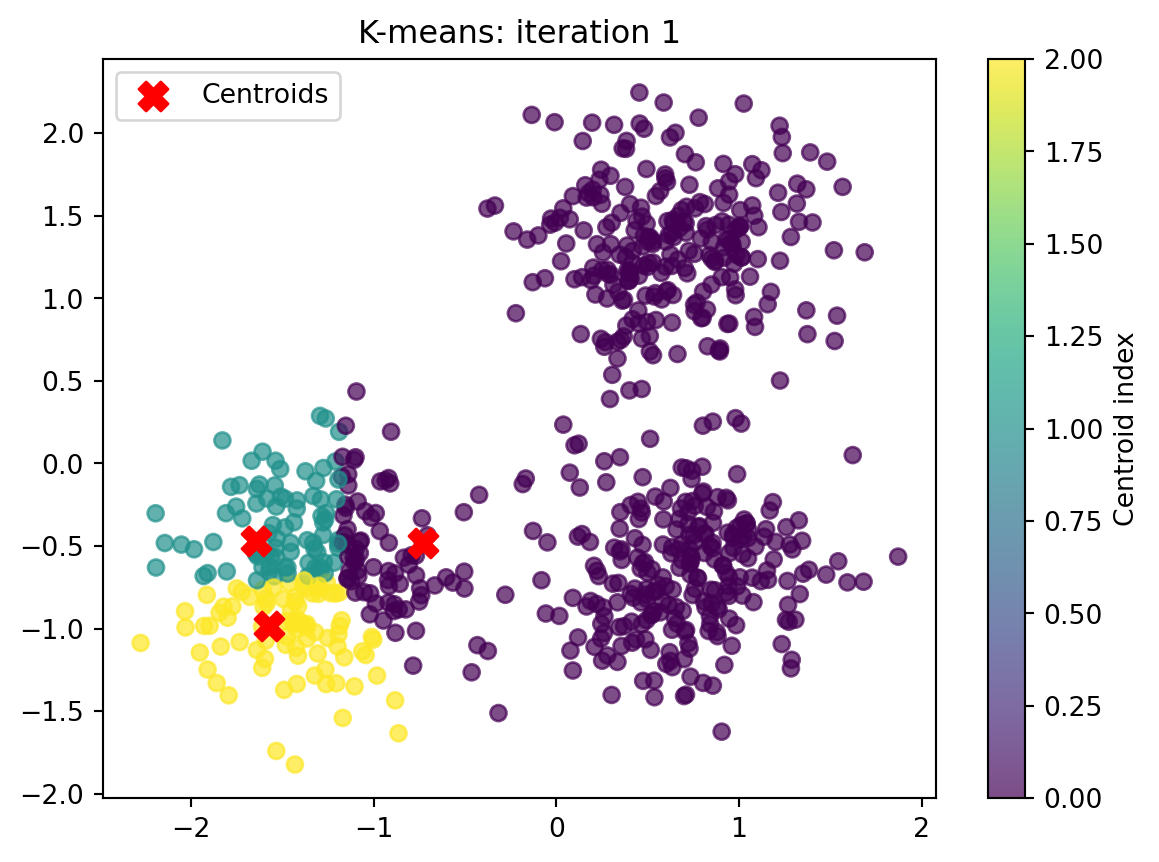
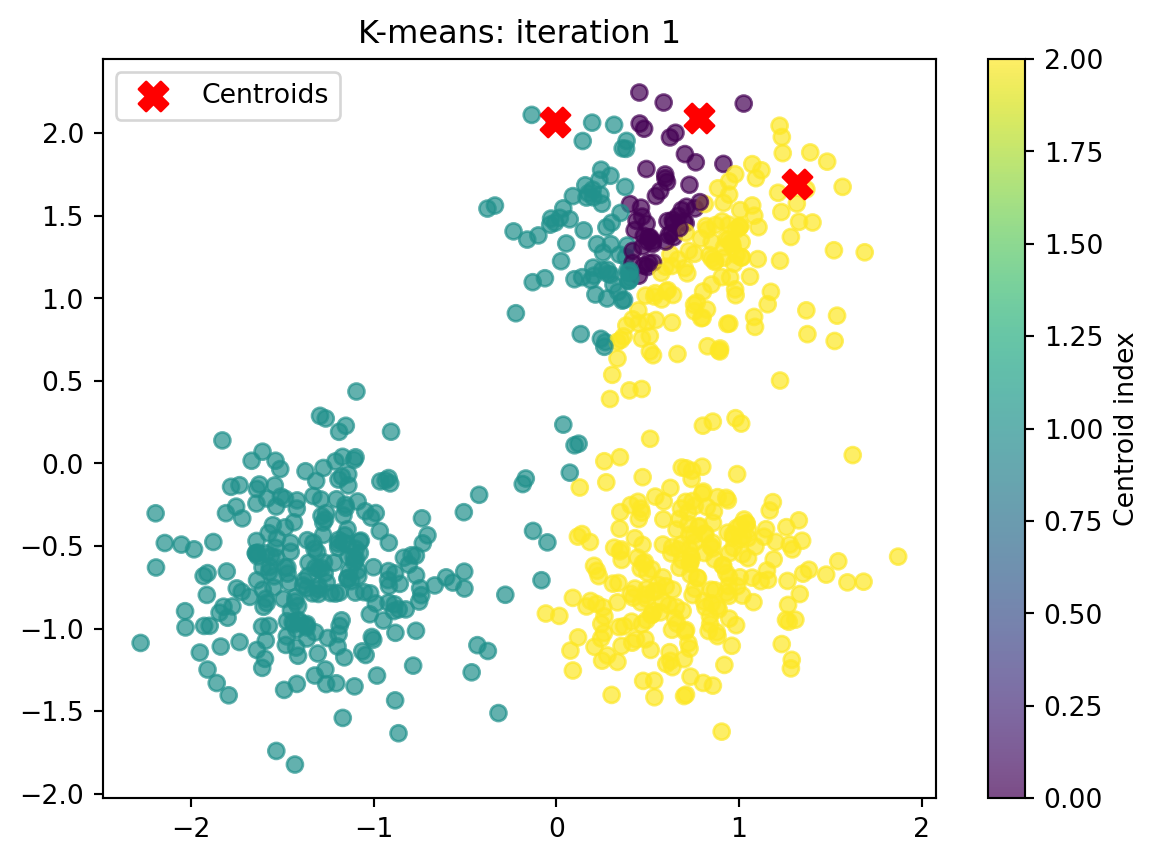
update docs

diff --git a/docs/Clustering_from_scratch.html b/docs/Clustering_from_scratch.html
@@ -299,7 +299,7 @@ window.Quarto = {
 <li>Each cluster has a “center” (called the centroid), which is the average of the data points in that cluster.</li>
 <li>Data points are assigned to the cluster with the nearest centroid, so items in the same cluster are more similar to each other than to items in other clusters.</li>
 </ul>
-<div id="7318065c" class="cell" data-execution_count="1">
+<div id="a6c323f1" class="cell" data-execution_count="1">
 <div class="sourceCode cell-code" id="cb1"><pre class="sourceCode python code-with-copy"><code class="sourceCode python"><span id="cb1-1"><a href="#cb1-1" aria-hidden="true" tabindex="-1"></a><span class="im">import</span> numpy <span class="im">as</span> np</span>
 <span id="cb1-2"><a href="#cb1-2" aria-hidden="true" tabindex="-1"></a><span class="im">from</span> sklearn.datasets <span class="im">import</span> make_blobs</span>
 <span id="cb1-3"><a href="#cb1-3" aria-hidden="true" tabindex="-1"></a><span class="im">from</span> sklearn.preprocessing <span class="im">import</span> StandardScaler</span>
@@ -310,7 +310,7 @@ window.Quarto = {
 <ol type="1">
 <li>Let’s generate some data:</li>
 </ol>
-<div id="74135237" class="cell" data-execution_count="2">
+<div id="85a25635" class="cell" data-execution_count="2">
 <div class="sourceCode cell-code" id="cb2"><pre class="sourceCode python code-with-copy"><code class="sourceCode python"><span id="cb2-1"><a href="#cb2-1" aria-hidden="true" tabindex="-1"></a>centers <span class="op">=</span> [[<span class="dv">1</span>, <span class="dv">1</span>], [<span class="op">-</span><span class="dv">1</span>, <span class="op">-</span><span class="dv">1</span>], [<span class="dv">1</span>, <span class="op">-</span><span class="dv">1</span>]]</span>
 <span id="cb2-2"><a href="#cb2-2" aria-hidden="true" tabindex="-1"></a>data, labels_true <span class="op">=</span> make_blobs(</span>
 <span id="cb2-3"><a href="#cb2-3" aria-hidden="true" tabindex="-1"></a>    n_samples<span class="op">=</span><span class="dv">750</span>, centers<span class="op">=</span>centers, cluster_std<span class="op">=</span><span class="fl">0.4</span>, random_state<span class="op">=</span><span class="dv">0</span></span>
@@ -336,7 +336,7 @@ window.Quarto = {
 <ol start="2" type="1">
 <li>Let’s make a simple plot of the data:</li>
 </ol>
-<div id="1368d31a" class="cell" data-execution_count="3">
+<div id="a617b3d7" class="cell" data-execution_count="3">
 <div class="sourceCode cell-code" id="cb5"><pre class="sourceCode python code-with-copy"><code class="sourceCode python"><span id="cb5-1"><a href="#cb5-1" aria-hidden="true" tabindex="-1"></a>fig,ax <span class="op">=</span> plt.subplots()</span>
 <span id="cb5-2"><a href="#cb5-2" aria-hidden="true" tabindex="-1"></a>ax.scatter(data[:,<span class="dv">0</span>], data[:,<span class="dv">1</span>])</span>
 <span id="cb5-3"><a href="#cb5-3" aria-hidden="true" tabindex="-1"></a>plt.show()</span></code><button title="Copy to Clipboard" class="code-copy-button"><i class="bi"></i></button></pre></div>
@@ -380,7 +380,7 @@ Solution
 </div>
 <div id="callout-1" class="callout-1-contents callout-collapse collapse">
 <div class="callout-body-container callout-body">
-<div id="95388d80" class="cell" data-execution_count="4">
+<div id="0a0f32c5" class="cell" data-execution_count="4">
 <div class="sourceCode cell-code" id="cb6"><pre class="sourceCode python code-with-copy"><code class="sourceCode python"><span id="cb6-1"><a href="#cb6-1" aria-hidden="true" tabindex="-1"></a><span class="im">import</span> random</span>
 <span id="cb6-2"><a href="#cb6-2" aria-hidden="true" tabindex="-1"></a></span>
 <span id="cb6-3"><a href="#cb6-3" aria-hidden="true" tabindex="-1"></a><span class="co"># Select 3 random rows from data</span></span>
@@ -396,9 +396,9 @@ Solution
 <span id="cb6-13"><a href="#cb6-13" aria-hidden="true" tabindex="-1"></a>ax.scatter(centroids[:, <span class="dv">0</span>], centroids[:, <span class="dv">1</span>], color<span class="op">=</span><span class="st">'red'</span>, s<span class="op">=</span><span class="dv">100</span>, marker<span class="op">=</span><span class="st">'X'</span>, label<span class="op">=</span><span class="st">'Centroids'</span>)</span>
 <span id="cb6-14"><a href="#cb6-14" aria-hidden="true" tabindex="-1"></a>plt.show()</span></code><button title="Copy to Clipboard" class="code-copy-button"><i class="bi"></i></button></pre></div>
 <div class="cell-output cell-output-stdout">
-<pre><code>[[-1.43557093 -0.97471401]
- [ 0.59807564  1.34363133]
- [ 0.86732948 -0.76800329]]</code></pre>
+<pre><code>[[ 1.68745105  1.27830756]
+ [-1.29275264  0.28788197]
+ [-0.70491186 -0.4356543 ]]</code></pre>
 </div>
 <div class="cell-output cell-output-display">
 <div>
@@ -438,13 +438,13 @@ Solution
 </div>
 <div id="callout-2" class="callout-2-contents callout-collapse collapse">
 <div class="callout-body-container callout-body">
-<div id="b1827acc" class="cell" data-execution_count="5">
+<div id="2dbf77d2" class="cell" data-execution_count="5">
 <div class="sourceCode cell-code" id="cb8"><pre class="sourceCode python code-with-copy"><code class="sourceCode python"><span id="cb8-1"><a href="#cb8-1" aria-hidden="true" tabindex="-1"></a><span class="kw">def</span> calculate_euclidean_distance(point1, point2):</span>
 <span id="cb8-2"><a href="#cb8-2" aria-hidden="true" tabindex="-1"></a>    <span class="cf">return</span> np.sqrt(np.<span class="bu">sum</span>((point1 <span class="op">-</span> point2) <span class="op">**</span> <span class="dv">2</span>))</span>
 <span id="cb8-3"><a href="#cb8-3" aria-hidden="true" tabindex="-1"></a></span>
 <span id="cb8-4"><a href="#cb8-4" aria-hidden="true" tabindex="-1"></a>calculate_euclidean_distance(data[<span class="dv">0</span>], centroids[<span class="dv">0</span>])</span></code><button title="Copy to Clipboard" class="code-copy-button"><i class="bi"></i></button></pre></div>
 <div class="cell-output cell-output-display" data-execution_count="5">
-<pre><code>3.099784587739274</code></pre>
+<pre><code>1.2056319469547112</code></pre>
 </div>
 </div>
 </div>
@@ -466,7 +466,7 @@ Solution
 </div>
 <div id="callout-3" class="callout-3-contents callout-collapse collapse">
 <div class="callout-body-container callout-body">
-<div id="c7011323" class="cell" data-execution_count="6">
+<div id="fa253e78" class="cell" data-execution_count="6">
 <div class="sourceCode cell-code" id="cb10"><pre class="sourceCode python code-with-copy"><code class="sourceCode python"><span id="cb10-1"><a href="#cb10-1" aria-hidden="true" tabindex="-1"></a>results <span class="op">=</span>[]</span>
 <span id="cb10-2"><a href="#cb10-2" aria-hidden="true" tabindex="-1"></a><span class="cf">for</span> i, entry <span class="kw">in</span> <span class="bu">enumerate</span>(centroids):</span>
 <span id="cb10-3"><a href="#cb10-3" aria-hidden="true" tabindex="-1"></a>    distance <span class="op">=</span> calculate_euclidean_distance(data[<span class="dv">0</span>], entry)</span>
@@ -476,7 +476,7 @@ Solution
 <span id="cb10-7"><a href="#cb10-7" aria-hidden="true" tabindex="-1"></a></span>
 <span id="cb10-8"><a href="#cb10-8" aria-hidden="true" tabindex="-1"></a><span class="bu">print</span>(closest_index)</span></code><button title="Copy to Clipboard" class="code-copy-button"><i class="bi"></i></button></pre></div>
 <div class="cell-output cell-output-stdout">
-<pre><code>1</code></pre>
+<pre><code>0</code></pre>
 </div>
 </div>
 </div>
@@ -498,7 +498,7 @@ Solution
 </div>
 <div id="callout-4" class="callout-4-contents callout-collapse collapse">
 <div class="callout-body-container callout-body">
-<div id="abc80cfd" class="cell" data-execution_count="7">
+<div id="e530bbd6" class="cell" data-execution_count="7">
 <div class="sourceCode cell-code" id="cb12"><pre class="sourceCode python code-with-copy"><code class="sourceCode python"><span id="cb12-1"><a href="#cb12-1" aria-hidden="true" tabindex="-1"></a>closest_index <span class="op">=</span> []</span>
 <span id="cb12-2"><a href="#cb12-2" aria-hidden="true" tabindex="-1"></a></span>
 <span id="cb12-3"><a href="#cb12-3" aria-hidden="true" tabindex="-1"></a><span class="cf">for</span> j, row <span class="kw">in</span> <span class="bu">enumerate</span>(data):</span>
@@ -512,7 +512,7 @@ Solution
 <span id="cb12-11"><a href="#cb12-11" aria-hidden="true" tabindex="-1"></a></span>
 <span id="cb12-12"><a href="#cb12-12" aria-hidden="true" tabindex="-1"></a><span class="bu">print</span>(closest_index)</span></code><button title="Copy to Clipboard" class="code-copy-button"><i class="bi"></i></button></pre></div>
 <div class="cell-output cell-output-stdout">
-<pre><code>[1, 0, 1, 2, 1, 0, 0, 2, 1, 1, 0, 0, 0, 2, 0, 1, 0, 0, 0, 2, 2, 2, 2, 2, 0, 0, 2, 1, 1, 2, 1, 0, 0, 1, 0, 1, 2, 1, 1, 2, 2, 0, 0, 0, 0, 0, 1, 2, 1, 0, 2, 2, 0, 0, 2, 2, 0, 1, 2, 0, 2, 2, 2, 2, 2, 1, 2, 2, 1, 1, 1, 2, 1, 1, 2, 0, 1, 0, 1, 2, 0, 0, 1, 1, 1, 1, 0, 2, 0, 2, 2, 1, 0, 1, 0, 1, 0, 0, 1, 1, 2, 0, 2, 1, 2, 2, 2, 2, 1, 1, 1, 0, 0, 0, 0, 1, 1, 0, 1, 0, 2, 0, 1, 1, 0, 2, 0, 1, 1, 2, 1, 2, 2, 2, 1, 0, 2, 2, 1, 0, 1, 2, 1, 1, 2, 2, 0, 2, 0, 1, 2, 0, 0, 2, 2, 2, 1, 0, 1, 0, 1, 0, 1, 2, 2, 0, 0, 2, 2, 0, 1, 0, 2, 2, 2, 0, 0, 2, 2, 1, 0, 2, 1, 1, 2, 1, 1, 0, 1, 0, 1, 0, 0, 2, 2, 1, 1, 0, 0, 2, 0, 2, 2, 2, 2, 1, 2, 1, 2, 2, 1, 2, 2, 2, 1, 1, 0, 0, 0, 2, 2, 2, 2, 0, 2, 2, 1, 1, 2, 1, 1, 1, 0, 1, 0, 0, 0, 2, 0, 0, 1, 0, 2, 2, 0, 2, 2, 0, 1, 1, 0, 0, 0, 1, 0, 1, 2, 1, 2, 2, 2, 2, 2, 0, 0, 1, 1, 0, 0, 1, 1, 2, 0, 2, 2, 0, 0, 2, 0, 2, 1, 2, 2, 1, 0, 2, 2, 1, 2, 2, 1, 1, 2, 1, 2, 1, 2, 0, 1, 1, 1, 0, 2, 0, 2, 2, 1, 2, 2, 1, 1, 2, 0, 0, 0, 0, 0, 1, 0, 0, 0, 0, 1, 1, 0, 0, 0, 1, 2, 1, 0, 2, 2, 1, 1, 2, 1, 2, 0, 1, 2, 1, 2, 1, 2, 2, 1, 0, 1, 0, 1, 2, 2, 0, 0, 0, 2, 1, 2, 1, 2, 0, 2, 2, 1, 0, 1, 0, 1, 1, 1, 1, 2, 1, 2, 1, 0, 1, 0, 2, 0, 0, 0, 1, 0, 0, 1, 2, 0, 1, 2, 2, 0, 0, 2, 2, 2, 0, 2, 0, 2, 1, 2, 0, 2, 0, 1, 0, 1, 0, 0, 1, 0, 2, 2, 0, 1, 1, 2, 0, 2, 2, 2, 2, 0, 1, 1, 1, 1, 0, 1, 2, 0, 1, 0, 2, 1, 1, 0, 1, 0, 0, 1, 0, 1, 2, 2, 2, 0, 0, 2, 1, 0, 1, 1, 0, 1, 0, 0, 2, 2, 0, 1, 0, 2, 2, 0, 0, 0, 0, 1, 1, 1, 2, 2, 0, 2, 0, 1, 1, 0, 2, 0, 1, 1, 2, 1, 0, 1, 2, 0, 1, 2, 2, 0, 1, 1, 1, 2, 0, 0, 1, 2, 1, 1, 0, 0, 0, 0, 1, 0, 1, 0, 1, 1, 2, 1, 0, 0, 2, 0, 0, 1, 0, 1, 2, 0, 1, 1, 0, 1, 0, 0, 2, 2, 0, 2, 2, 0, 2, 0, 0, 0, 0, 2, 1, 1, 1, 0, 2, 2, 1, 2, 1, 2, 0, 1, 0, 0, 1, 1, 0, 2, 0, 2, 2, 1, 2, 0, 0, 0, 2, 1, 1, 2, 1, 2, 2, 1, 2, 1, 0, 0, 0, 0, 1, 1, 1, 2, 0, 0, 0, 0, 2, 2, 2, 1, 2, 0, 0, 1, 1, 0, 1, 2, 0, 2, 0, 1, 2, 2, 1, 1, 0, 1, 1, 2, 1, 1, 1, 2, 1, 2, 1, 1, 0, 0, 1, 1, 0, 2, 2, 1, 1, 1, 1, 2, 0, 0, 0, 2, 0, 1, 1, 2, 2, 1, 0, 2, 1, 0, 2, 2, 0, 1, 1, 2, 0, 2, 1, 1, 1, 2, 2, 2, 1, 0, 0, 0, 0, 0, 1, 1, 2, 0, 2, 1, 0, 0, 2, 1, 2, 0, 0, 0, 2, 0, 2, 1, 2, 2, 0, 1, 1, 1, 0, 0, 2, 1, 1, 2, 2, 0, 2, 2, 2, 1, 2, 0, 2, 0, 0, 0, 2, 1, 2, 1, 2, 2, 1, 1, 2, 0, 1, 1, 2, 1, 1, 1, 0, 1, 2, 0, 2, 1, 0, 1, 1, 2, 1, 2, 0, 0, 2, 0, 1, 0, 2, 0, 2]</code></pre>
+<pre><code>[0, 2, 0, 2, 0, 1, 2, 2, 0, 0, 2, 2, 2, 2, 2, 0, 2, 2, 2, 2, 2, 2, 2, 2, 2, 2, 2, 0, 0, 2, 0, 2, 2, 0, 2, 0, 2, 0, 0, 2, 2, 2, 2, 2, 1, 2, 0, 2, 0, 1, 0, 2, 1, 2, 2, 2, 1, 0, 2, 2, 2, 2, 2, 2, 2, 0, 2, 2, 0, 0, 0, 2, 0, 0, 2, 2, 0, 1, 0, 2, 2, 2, 2, 0, 0, 0, 2, 2, 2, 2, 2, 0, 2, 0, 2, 0, 1, 2, 0, 0, 2, 2, 2, 0, 2, 2, 2, 2, 0, 0, 0, 2, 2, 1, 1, 0, 0, 1, 0, 2, 2, 1, 0, 1, 2, 2, 2, 0, 0, 0, 0, 2, 2, 2, 0, 2, 2, 2, 0, 2, 0, 2, 0, 0, 2, 2, 2, 2, 2, 0, 2, 2, 2, 2, 2, 2, 0, 2, 0, 2, 2, 1, 0, 2, 2, 2, 1, 2, 2, 1, 0, 2, 2, 2, 2, 2, 2, 2, 2, 0, 2, 2, 0, 0, 2, 0, 0, 2, 0, 2, 0, 2, 2, 2, 2, 0, 0, 2, 2, 2, 2, 2, 0, 2, 2, 0, 2, 0, 2, 2, 0, 2, 0, 2, 0, 1, 1, 2, 1, 2, 2, 2, 0, 1, 2, 2, 0, 0, 2, 0, 0, 0, 2, 0, 2, 1, 1, 2, 1, 1, 0, 2, 2, 2, 2, 2, 2, 2, 0, 0, 2, 2, 2, 0, 2, 0, 2, 0, 2, 0, 0, 2, 2, 2, 2, 1, 0, 2, 2, 0, 0, 2, 2, 0, 2, 2, 1, 2, 2, 2, 1, 2, 2, 0, 2, 2, 2, 1, 0, 2, 0, 0, 2, 0, 2, 0, 2, 2, 0, 0, 0, 2, 2, 2, 2, 2, 0, 2, 2, 0, 0, 2, 1, 1, 1, 2, 2, 0, 2, 1, 2, 1, 0, 0, 2, 2, 2, 0, 2, 0, 2, 2, 2, 0, 0, 2, 0, 2, 2, 0, 2, 0, 2, 1, 2, 2, 0, 2, 0, 2, 0, 2, 2, 2, 2, 2, 2, 0, 2, 0, 2, 1, 2, 2, 0, 2, 0, 2, 0, 0, 0, 0, 2, 0, 2, 0, 2, 0, 2, 2, 2, 1, 2, 0, 2, 2, 0, 2, 1, 0, 2, 0, 2, 2, 2, 2, 2, 2, 2, 2, 2, 0, 2, 2, 2, 1, 0, 2, 0, 2, 2, 0, 1, 2, 0, 1, 0, 0, 2, 1, 2, 2, 2, 2, 2, 0, 1, 1, 0, 2, 0, 0, 2, 0, 2, 2, 0, 0, 2, 0, 1, 2, 0, 2, 0, 2, 2, 2, 1, 1, 2, 0, 1, 0, 1, 2, 0, 2, 2, 2, 2, 2, 0, 2, 2, 0, 2, 2, 2, 2, 0, 0, 0, 2, 2, 1, 2, 2, 0, 0, 2, 2, 1, 0, 0, 2, 0, 2, 0, 2, 2, 0, 2, 2, 2, 0, 2, 0, 2, 2, 1, 0, 2, 0, 0, 2, 1, 1, 2, 0, 2, 0, 2, 0, 0, 2, 0, 2, 2, 2, 2, 2, 1, 2, 0, 2, 2, 0, 0, 2, 0, 1, 1, 2, 2, 2, 2, 2, 2, 2, 2, 1, 1, 1, 2, 0, 0, 0, 2, 2, 2, 0, 2, 0, 2, 1, 0, 2, 2, 0, 0, 2, 0, 2, 2, 2, 0, 0, 2, 2, 1, 2, 0, 0, 2, 0, 2, 2, 0, 2, 0, 1, 2, 2, 1, 0, 0, 0, 2, 2, 1, 1, 1, 2, 2, 2, 0, 2, 1, 2, 0, 0, 2, 0, 2, 2, 2, 2, 0, 2, 2, 0, 0, 2, 0, 0, 2, 0, 0, 0, 2, 2, 2, 0, 2, 2, 2, 0, 0, 2, 2, 2, 0, 0, 0, 0, 2, 1, 2, 2, 0, 2, 0, 0, 2, 2, 0, 2, 2, 0, 2, 2, 2, 2, 0, 0, 0, 2, 2, 0, 0, 0, 2, 0, 2, 0, 2, 2, 2, 2, 2, 0, 0, 2, 2, 0, 0, 2, 2, 2, 2, 2, 2, 2, 2, 2, 2, 2, 0, 0, 2, 2, 0, 0, 0, 2, 1, 2, 0, 0, 0, 2, 2, 2, 2, 2, 0, 2, 2, 2, 2, 2, 1, 2, 0, 2, 0, 2, 2, 0, 2, 0, 2, 2, 0, 0, 0, 0, 0, 2, 2, 2, 2, 2, 0, 1, 0, 0, 2, 0, 2, 2, 1, 2, 2, 0, 1, 2, 1, 2]</code></pre>
 </div>
 </div>
 </div>
@@ -534,7 +534,7 @@ Solution
 </div>
 <div id="callout-5" class="callout-5-contents callout-collapse collapse">
 <div class="callout-body-container callout-body">
-<div id="7248c096" class="cell" data-execution_count="8">
+<div id="5189e8e1" class="cell" data-execution_count="8">
 <div class="sourceCode cell-code" id="cb14"><pre class="sourceCode python code-with-copy"><code class="sourceCode python"><span id="cb14-1"><a href="#cb14-1" aria-hidden="true" tabindex="-1"></a>fig,ax <span class="op">=</span> plt.subplots()</span>
 <span id="cb14-2"><a href="#cb14-2" aria-hidden="true" tabindex="-1"></a>scatter <span class="op">=</span> ax.scatter(data[:, <span class="dv">0</span>], data[:, <span class="dv">1</span>], c<span class="op">=</span>closest_index, cmap<span class="op">=</span><span class="st">'viridis'</span>, alpha<span class="op">=</span><span class="fl">0.7</span>)</span>
 <span id="cb14-3"><a href="#cb14-3" aria-hidden="true" tabindex="-1"></a>ax.scatter(centroids[:, <span class="dv">0</span>], centroids[:, <span class="dv">1</span>], color<span class="op">=</span><span class="st">'red'</span>, s<span class="op">=</span><span class="dv">100</span>, marker<span class="op">=</span><span class="st">'X'</span>, label<span class="op">=</span><span class="st">'Centroids'</span>)</span>
@@ -556,7 +556,7 @@ Solution
 <h3 class="anchored" data-anchor-id="calculate-new-mean-per-cluster">3. Calculate new mean per cluster</h3>
 <p>We have now assigned all points to these first 3 clusters. Now we calculate the new cluster mean per cluster.</p>
 <p>First, we add the vector containing the assignment to the cluster to the data frame.</p>
-<div id="31d8acfc" class="cell" data-execution_count="9">
+<div id="4a9a962f" class="cell" data-execution_count="9">
 <div class="sourceCode cell-code" id="cb15"><pre class="sourceCode python code-with-copy"><code class="sourceCode python"><span id="cb15-1"><a href="#cb15-1" aria-hidden="true" tabindex="-1"></a>data <span class="op">=</span> np.column_stack((data, closest_index)) <span class="co"># add closest_index as column</span></span></code><button title="Copy to Clipboard" class="code-copy-button"><i class="bi"></i></button></pre></div>
 </div>
 <p>Then we calculate the new means of those clusters.</p>
@@ -572,7 +572,7 @@ Solution
 </div>
 <div id="callout-6" class="callout-6-contents callout-collapse collapse">
 <div class="callout-body-container callout-body">
-<div id="ab1b6219" class="cell" data-execution_count="10">
+<div id="7ba7bb41" class="cell" data-execution_count="10">
 <div class="sourceCode cell-code" id="cb16"><pre class="sourceCode python code-with-copy"><code class="sourceCode python"><span id="cb16-1"><a href="#cb16-1" aria-hidden="true" tabindex="-1"></a><span class="co"># Calculate the new_centroids</span></span>
 <span id="cb16-2"><a href="#cb16-2" aria-hidden="true" tabindex="-1"></a></span>
 <span id="cb16-3"><a href="#cb16-3" aria-hidden="true" tabindex="-1"></a>k <span class="op">=</span> <span class="dv">3</span>  <span class="co"># Number of clusters</span></span>
@@ -586,7 +586,7 @@ Solution
 <span id="cb16-11"><a href="#cb16-11" aria-hidden="true" tabindex="-1"></a>    new_centroids.append(centroid)</span>
 <span id="cb16-12"><a href="#cb16-12" aria-hidden="true" tabindex="-1"></a><span class="bu">print</span>(new_centroids)</span></code><button title="Copy to Clipboard" class="code-copy-button"><i class="bi"></i></button></pre></div>
 <div class="cell-output cell-output-stdout">
-<pre><code>[array([-1.30266211, -0.65704205]), array([0.62025882, 1.31291144]), array([ 0.69809801, -0.64795323])]</code></pre>
+<pre><code>[array([0.72365215, 1.19086843]), array([-1.36293866, -0.03194774]), array([-0.19714498, -0.70508851])]</code></pre>
 </div>
 </div>
 </div>
@@ -595,7 +595,7 @@ Solution
 <section id="plot-the-new-centroids" class="level4">
 <h4 class="anchored" data-anchor-id="plot-the-new-centroids">Plot the new centroids</h4>
 <p>we can now plot the new centroids, by updaing the first plot.</p>
-<div id="2dcdc2fa" class="cell" data-execution_count="11">
+<div id="beb03c88" class="cell" data-execution_count="11">
 <div class="sourceCode cell-code" id="cb18"><pre class="sourceCode python code-with-copy"><code class="sourceCode python"><span id="cb18-1"><a href="#cb18-1" aria-hidden="true" tabindex="-1"></a>new_centroids <span class="op">=</span> np.array(new_centroids)  <span class="co"># Convert list to (k, 2) NumPy array</span></span>
 <span id="cb18-2"><a href="#cb18-2" aria-hidden="true" tabindex="-1"></a></span>
 <span id="cb18-3"><a href="#cb18-3" aria-hidden="true" tabindex="-1"></a>fig, ax <span class="op">=</span> plt.subplots()</span>
@@ -623,7 +623,7 @@ Solution
 </section>
 <section id="putting-it-all-together" class="level2">
 <h2 class="anchored" data-anchor-id="putting-it-all-together">Putting it all together:</h2>
-<div id="11ac33ec" class="cell" data-execution_count="12">
+<div id="bb413a6e" class="cell" data-execution_count="12">
 <div class="sourceCode cell-code" id="cb19"><pre class="sourceCode python code-with-copy"><code class="sourceCode python"><span id="cb19-1"><a href="#cb19-1" aria-hidden="true" tabindex="-1"></a><span class="im">import</span> numpy <span class="im">as</span> np</span>
 <span id="cb19-2"><a href="#cb19-2" aria-hidden="true" tabindex="-1"></a><span class="im">import</span> matplotlib.pyplot <span class="im">as</span> plt</span>
 <span id="cb19-3"><a href="#cb19-3" aria-hidden="true" tabindex="-1"></a><span class="im">import</span> random</span>
@@ -722,47 +722,13 @@ Solution
 </figure>
 </div>
 </div>
-<div class="cell-output cell-output-display">
-<div>
-<figure class="figure">
-<p><img src="Clustering_from_scratch_files/figure-html/cell-13-output-6.png" width="580" height="431" class="figure-img"></p>
-</figure>
-</div>
-</div>
-<div class="cell-output cell-output-display">
-<div>
-<figure class="figure">
-<p><img src="Clustering_from_scratch_files/figure-html/cell-13-output-7.png" width="580" height="431" class="figure-img"></p>
-</figure>
-</div>
-</div>
-<div class="cell-output cell-output-display">
-<div>
-<figure class="figure">
-<p><img src="Clustering_from_scratch_files/figure-html/cell-13-output-8.png" width="580" height="431" class="figure-img"></p>
-</figure>
-</div>
-</div>
-<div class="cell-output cell-output-display">
-<div>
-<figure class="figure">
-<p><img src="Clustering_from_scratch_files/figure-html/cell-13-output-9.png" width="580" height="431" class="figure-img"></p>
-</figure>
-</div>
-</div>
-<div class="cell-output cell-output-display">
-<div>
-<figure class="figure">
-<p><img src="Clustering_from_scratch_files/figure-html/cell-13-output-10.png" width="580" height="431" class="figure-img"></p>
-</figure>
-</div>
-</div>
 <div class="cell-output cell-output-stdout">
-<pre><code>Finished after 10 iteration(s).
+<pre><code>Converged after 5 iteration(s).
+Finished after 5 iteration(s).
 Final centroids:
  [[ 0.62260555  1.3172598 ]
- [-1.30659124 -0.65363509]
- [ 0.69142719 -0.64788058]]</code></pre>
+ [-1.30266211 -0.65704205]
+ [ 0.6954587  -0.64442334]]</code></pre>
 </div>
 </div>
 </section>
@@ -784,14 +750,14 @@ Final centroids:
 <section id="clustering-with-scikit-learn" class="level3">
 <h3 class="anchored" data-anchor-id="clustering-with-scikit-learn">2. Clustering with scikit-learn</h3>
 <p>We repeat the clustering approach from above with one line of code:</p>
-<div id="b2607eb9" class="cell" data-execution_count="13">
+<div id="26b94e2d" class="cell" data-execution_count="13">
 <div class="sourceCode cell-code" id="cb23"><pre class="sourceCode python code-with-copy"><code class="sourceCode python"><span id="cb23-1"><a href="#cb23-1" aria-hidden="true" tabindex="-1"></a>centroid, label, inertia <span class="op">=</span> k_means(</span>
 <span id="cb23-2"><a href="#cb23-2" aria-hidden="true" tabindex="-1"></a>    data, n_clusters<span class="op">=</span><span class="dv">3</span>, n_init<span class="op">=</span><span class="st">"auto"</span>, random_state<span class="op">=</span><span class="dv">0</span></span>
 <span id="cb23-3"><a href="#cb23-3" aria-hidden="true" tabindex="-1"></a>)</span></code><button title="Copy to Clipboard" class="code-copy-button"><i class="bi"></i></button></pre></div>
 </div>
 <p>As we can see, the function returns three results: centroids (the location), labels (the assignments) and inertia.</p>
 <p>We can now easily loop over this function to find the optimal amount of clusters, by comparing inertia. We then plot the inertia for each loop in an elbow plot:</p>
-<div id="6eda8c0b" class="cell" data-execution_count="14">
+<div id="48a027c6" class="cell" data-execution_count="14">
 <div class="sourceCode cell-code" id="cb24"><pre class="sourceCode python code-with-copy"><code class="sourceCode python"><span id="cb24-1"><a href="#cb24-1" aria-hidden="true" tabindex="-1"></a>elbow <span class="op">=</span> <span class="bu">list</span>() <span class="co"># list to store interias</span></span>
 <span id="cb24-2"><a href="#cb24-2" aria-hidden="true" tabindex="-1"></a><span class="cf">for</span> k <span class="kw">in</span> <span class="bu">range</span>(<span class="dv">9</span>):</span>
 <span id="cb24-3"><a href="#cb24-3" aria-hidden="true" tabindex="-1"></a>    centroid, label, inertia <span class="op">=</span> k_means(</span>
@@ -803,7 +769,7 @@ Final centroids:
 <section id="generate-elbow-plot." class="level3">
 <h3 class="anchored" data-anchor-id="generate-elbow-plot.">3. Generate elbow plot.</h3>
 <p>Let’s generate an elbow plot to plot the inertia:</p>
-<div id="b1b6b91e" class="cell" data-execution_count="15">
+<div id="032fe2ad" class="cell" data-execution_count="15">
 <div class="sourceCode cell-code" id="cb25"><pre class="sourceCode python code-with-copy"><code class="sourceCode python"><span id="cb25-1"><a href="#cb25-1" aria-hidden="true" tabindex="-1"></a>plt.plot(<span class="bu">range</span>(<span class="dv">1</span>, <span class="dv">10</span>), elbow, marker<span class="op">=</span><span class="st">'o'</span>)</span>
 <span id="cb25-2"><a href="#cb25-2" aria-hidden="true" tabindex="-1"></a>plt.title(<span class="st">'Elbow Method'</span>)</span>
 <span id="cb25-3"><a href="#cb25-3" aria-hidden="true" tabindex="-1"></a>plt.xlabel(<span class="st">'Number of clusters'</span>)</span>

diff --git a/docs/Regression_from_scratch.html b/docs/Regression_from_scratch.html
@@ -813,7 +813,7 @@ Solution Gradients
 <ol type="1">
 <li>Start with a new data set, for example age and cortical thickness, generated from this code:</li>
 </ol>
-<div id="6b4cf552" class="cell" data-execution_count="1">
+<div id="5e98d040" class="cell" data-execution_count="1">
 <div class="sourceCode cell-code" id="cb5"><pre class="sourceCode python code-with-copy"><code class="sourceCode python"><span id="cb5-1"><a href="#cb5-1" aria-hidden="true" tabindex="-1"></a><span class="im">import</span> numpy <span class="im">as</span> np</span>
 <span id="cb5-2"><a href="#cb5-2" aria-hidden="true" tabindex="-1"></a>n <span class="op">=</span> <span class="dv">100</span></span>
 <span id="cb5-3"><a href="#cb5-3" aria-hidden="true" tabindex="-1"></a>age <span class="op">=</span> np.linspace(<span class="dv">0</span>, <span class="dv">1</span>, n)  <span class="co"># age, standardized</span></span>
@@ -838,7 +838,7 @@ Solution Regression
 </div>
 <div id="callout-5" class="callout-5-contents callout-collapse collapse">
 <div class="callout-body-container callout-body">
-<div id="78dfb84c" class="cell" data-execution_count="2">
+<div id="c1fefd5b" class="cell" data-execution_count="2">
 <div class="sourceCode cell-code" id="cb6"><pre class="sourceCode python code-with-copy"><code class="sourceCode python"><span id="cb6-1"><a href="#cb6-1" aria-hidden="true" tabindex="-1"></a><span class="im">import</span> numpy <span class="im">as</span> np</span>
 <span id="cb6-2"><a href="#cb6-2" aria-hidden="true" tabindex="-1"></a><span class="im">import</span> matplotlib.pyplot <span class="im">as</span> plt</span>
 <span id="cb6-3"><a href="#cb6-3" aria-hidden="true" tabindex="-1"></a></span>
@@ -883,17 +883,17 @@ Solution Regression
 <span id="cb6-42"><a href="#cb6-42" aria-hidden="true" tabindex="-1"></a>plt.savefig(<span class="st">"imgs/linear_regression_fit.png"</span>, dpi<span class="op">=</span><span class="dv">300</span>, bbox_inches<span class="op">=</span><span class="st">"tight"</span>)</span>
 <span id="cb6-43"><a href="#cb6-43" aria-hidden="true" tabindex="-1"></a>plt.show()</span></code><button title="Copy to Clipboard" class="code-copy-button"><i class="bi"></i></button></pre></div>
 <div class="cell-output cell-output-stdout">
-<pre><code>Epoch    0: w=0.028, b=0.056, Loss=7.7893
-Epoch  200: w=0.873, b=2.306, Loss=0.0747
-Epoch  400: w=0.665, b=2.433, Loss=0.0447
-Epoch  600: w=0.501, b=2.521, Loss=0.0273
-Epoch  800: w=0.376, b=2.588, Loss=0.0171
-Epoch 1000: w=0.280, b=2.639, Loss=0.0111
-Epoch 1200: w=0.207, b=2.678, Loss=0.0076
-Epoch 1400: w=0.151, b=2.709, Loss=0.0056
-Epoch 1600: w=0.108, b=2.731, Loss=0.0044
-Epoch 1800: w=0.075, b=2.749, Loss=0.0037
-Final weights: w=0.050, b=2.762</code></pre>
+<pre><code>Epoch    0: w=0.028, b=0.056, Loss=7.8590
+Epoch  200: w=0.886, b=2.312, Loss=0.0706
+Epoch  400: w=0.684, b=2.437, Loss=0.0421
+Epoch  600: w=0.524, b=2.522, Loss=0.0256
+Epoch  800: w=0.402, b=2.588, Loss=0.0159
+Epoch 1000: w=0.309, b=2.638, Loss=0.0102
+Epoch 1200: w=0.237, b=2.676, Loss=0.0069
+Epoch 1400: w=0.183, b=2.705, Loss=0.0050
+Epoch 1600: w=0.141, b=2.728, Loss=0.0039
+Epoch 1800: w=0.109, b=2.745, Loss=0.0032
+Final weights: w=0.085, b=2.758</code></pre>
 </div>
 <div class="cell-output cell-output-display">
 <div>

diff --git a/docs/More_clustering_algorithms.html b/docs/More_clustering_algorithms.html
@@ -245,7 +245,7 @@ pre > code.sourceCode > span > a:first-child::before { text-decoration: underlin
 </header>
 
 
-<div id="13993bd4" class="cell" data-execution_count="1">
+<div id="9d2e1669" class="cell" data-execution_count="1">
 <div class="sourceCode cell-code" id="cb1"><pre class="sourceCode python code-with-copy"><code class="sourceCode python"><span id="cb1-1"><a href="#cb1-1" aria-hidden="true" tabindex="-1"></a><span class="im">import</span> time</span>
 <span id="cb1-2"><a href="#cb1-2" aria-hidden="true" tabindex="-1"></a><span class="im">import</span> warnings</span>
 <span id="cb1-3"><a href="#cb1-3" aria-hidden="true" tabindex="-1"></a><span class="im">from</span> itertools <span class="im">import</span> cycle, islice</span>
@@ -258,7 +258,7 @@ pre > code.sourceCode > span > a:first-child::before { text-decoration: underlin
 <span id="cb1-10"><a href="#cb1-10" aria-hidden="true" tabindex="-1"></a><span class="im">from</span> sklearn.preprocessing <span class="im">import</span> StandardScaler</span></code><button title="Copy to Clipboard" class="code-copy-button"><i class="bi"></i></button></pre></div>
 </div>
 <p>Let’s generate some data:</p>
-<div id="482a9579" class="cell" data-execution_count="2">
+<div id="a155f08e" class="cell" data-execution_count="2">
 <div class="sourceCode cell-code" id="cb2"><pre class="sourceCode python code-with-copy"><code class="sourceCode python"><span id="cb2-1"><a href="#cb2-1" aria-hidden="true" tabindex="-1"></a><span class="co"># ============</span></span>
 <span id="cb2-2"><a href="#cb2-2" aria-hidden="true" tabindex="-1"></a><span class="co"># Generate datasets. We choose the size big enough to see the scalability</span></span>
 <span id="cb2-3"><a href="#cb2-3" aria-hidden="true" tabindex="-1"></a><span class="co"># of the algorithms, but not too big to avoid too long running times</span></span>
@@ -285,7 +285,7 @@ pre > code.sourceCode > span > a:first-child::before { text-decoration: underlin
 <span id="cb2-24"><a href="#cb2-24" aria-hidden="true" tabindex="-1"></a>    n_samples<span class="op">=</span>n_samples, cluster_std<span class="op">=</span>[<span class="fl">1.0</span>, <span class="fl">2.5</span>, <span class="fl">0.5</span>], random_state<span class="op">=</span>random_state</span>
 <span id="cb2-25"><a href="#cb2-25" aria-hidden="true" tabindex="-1"></a>)</span></code><button title="Copy to Clipboard" class="code-copy-button"><i class="bi"></i></button></pre></div>
 </div>
-<div id="72c32472" class="cell" data-execution_count="3">
+<div id="65e681e2" class="cell" data-execution_count="3">
 <div class="sourceCode cell-code" id="cb3"><pre class="sourceCode python code-with-copy"><code class="sourceCode python"><span id="cb3-1"><a href="#cb3-1" aria-hidden="true" tabindex="-1"></a><span class="co"># ============</span></span>
 <span id="cb3-2"><a href="#cb3-2" aria-hidden="true" tabindex="-1"></a><span class="co"># Set up cluster parameters</span></span>
 <span id="cb3-3"><a href="#cb3-3" aria-hidden="true" tabindex="-1"></a><span class="co"># ============</span></span>
